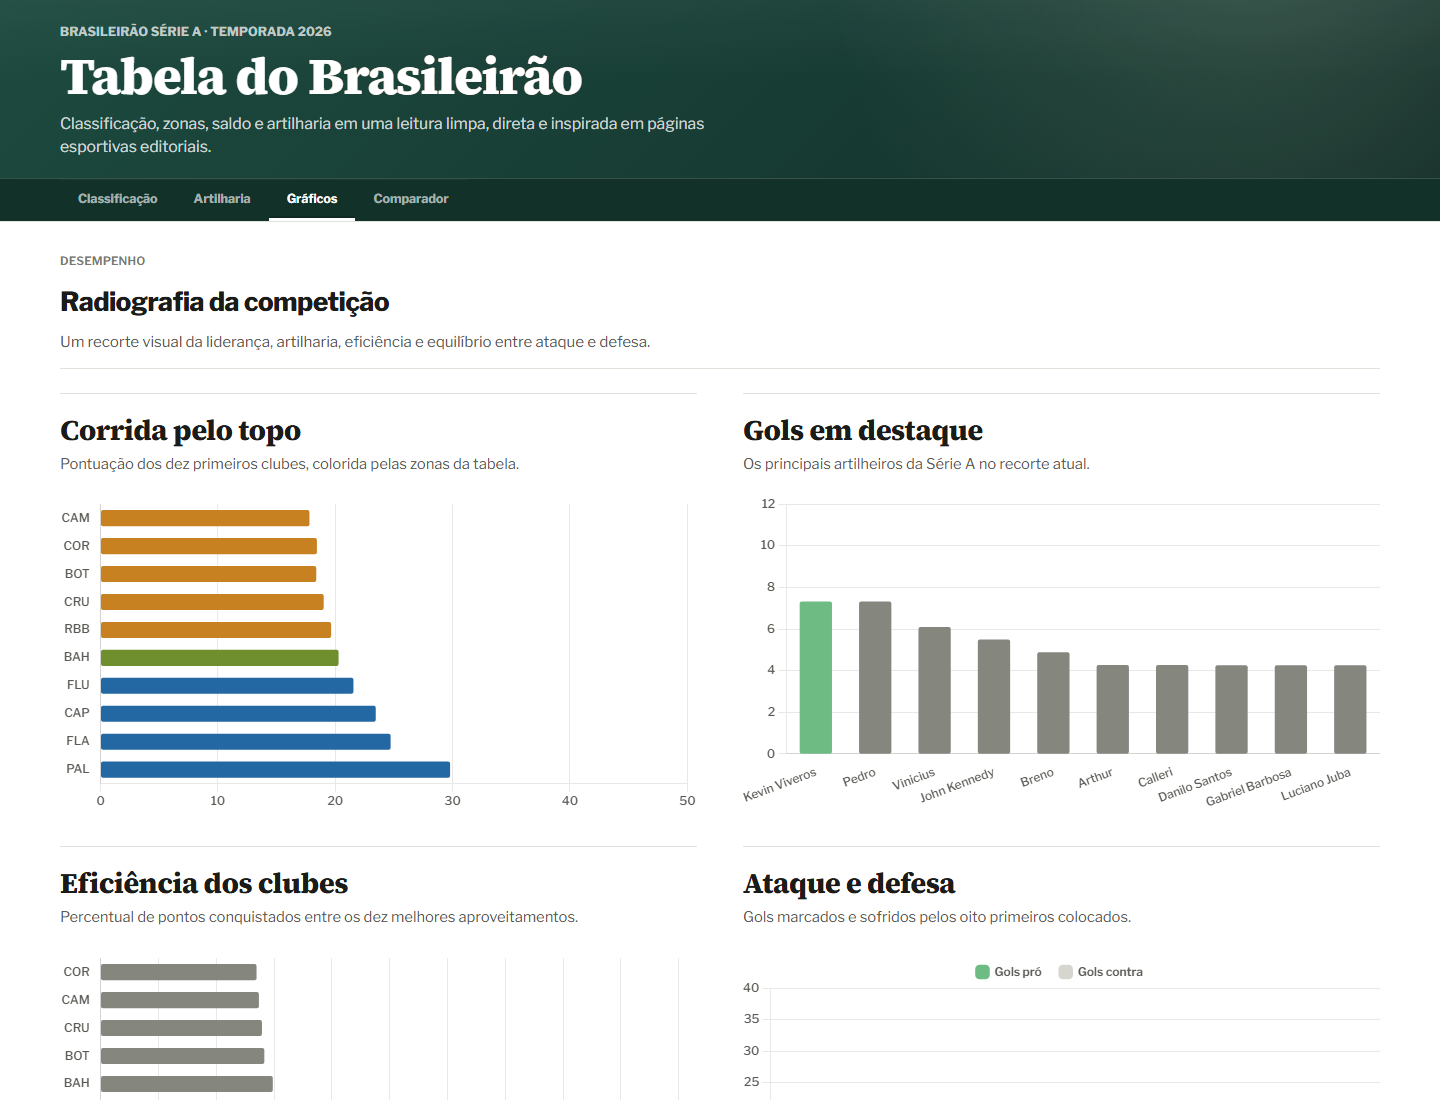
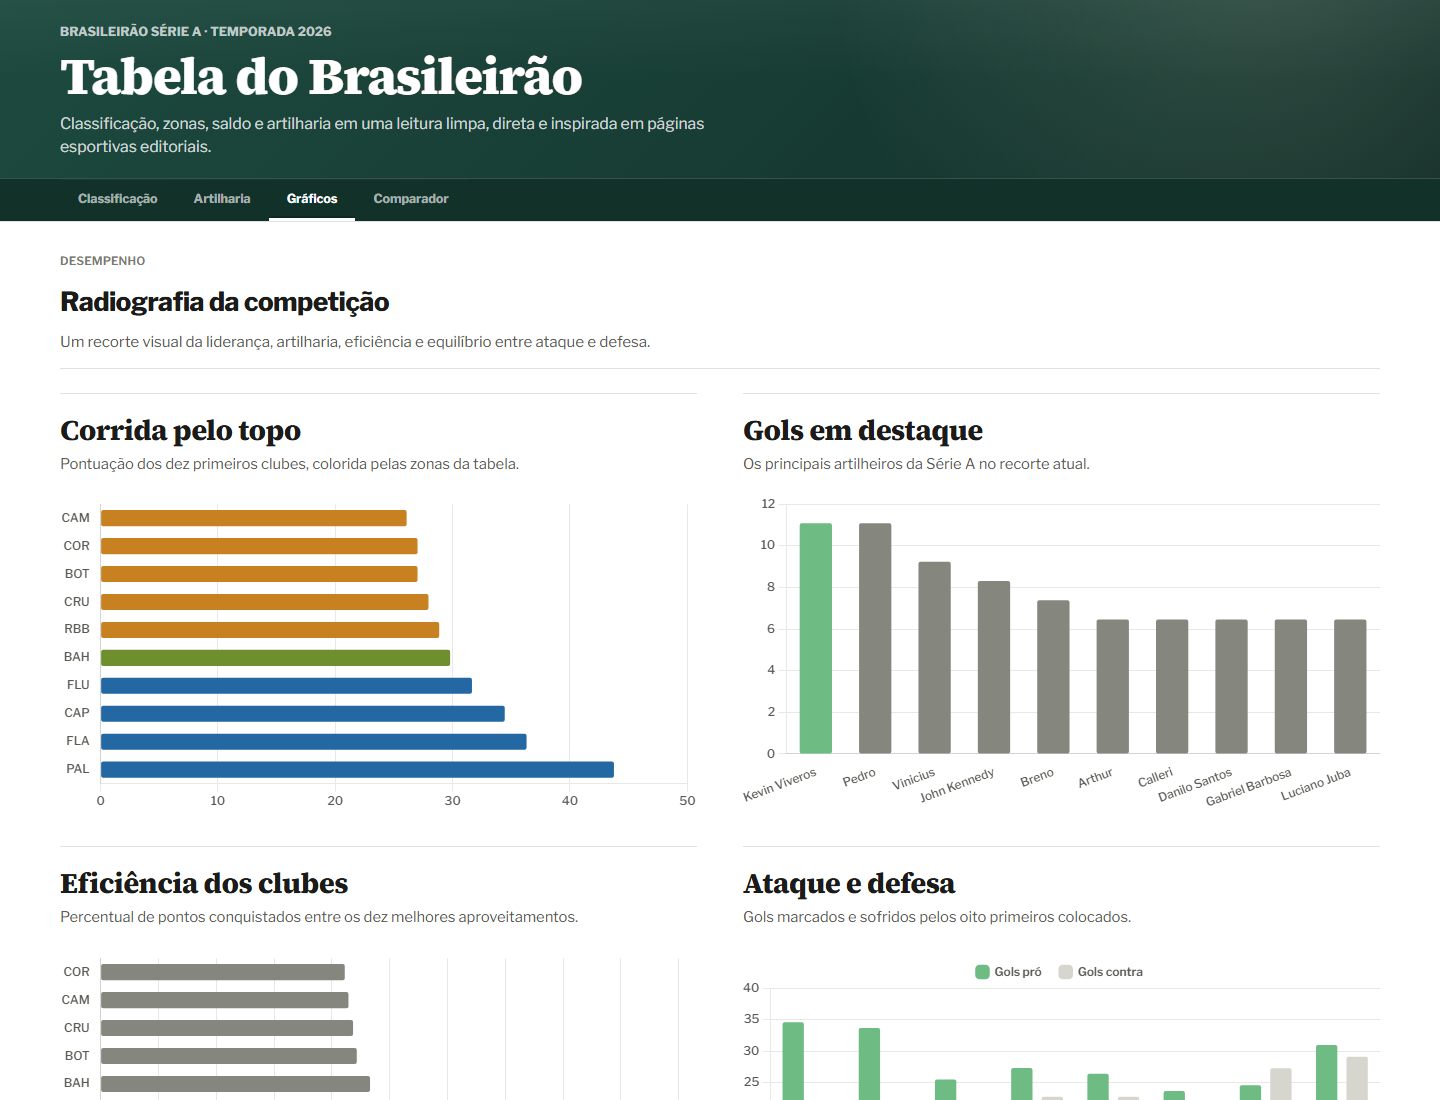
fix: serve team crests from local assets

diff --git a/club_assets.py b/club_assets.py
@@ -2,7 +2,27 @@ from typing import Any
 
 
 ESCUDOS_LOCAIS: dict[str, str] = {
+    "BAH": "static/img/escudos/BAH.jpg",
+    "BOT": "static/img/escudos/BOT.gif",
+    "CAM": "static/img/escudos/CAM.jpg",
     "CAP": "static/img/escudos/CAP.png",
+    "CFC": "static/img/escudos/CFC.jpg",
+    "CHA": "static/img/escudos/CHA.svg",
+    "COR": "static/img/escudos/COR.jpg",
+    "CRU": "static/img/escudos/CRU.gif",
+    "FLA": "static/img/escudos/FLA.gif",
+    "FLU": "static/img/escudos/FLU.gif",
+    "GRE": "static/img/escudos/GRE.jpg",
+    "INT": "static/img/escudos/INT.gif",
+    "MIR": "static/img/escudos/MIR.svg",
+    "PAL": "static/img/escudos/PAL.gif",
+    "RBB": "static/img/escudos/RBB.svg",
+    "REM": "static/img/escudos/REM.svg",
+    "SAN": "static/img/escudos/SAN.gif",
+    "SAO": "static/img/escudos/SAO.jpg",
+    "SPO": "static/img/escudos/SPO.gif",
+    "VAS": "static/img/escudos/VAS.gif",
+    "VIT": "static/img/escudos/VIT.jpg",
 }
 
 
